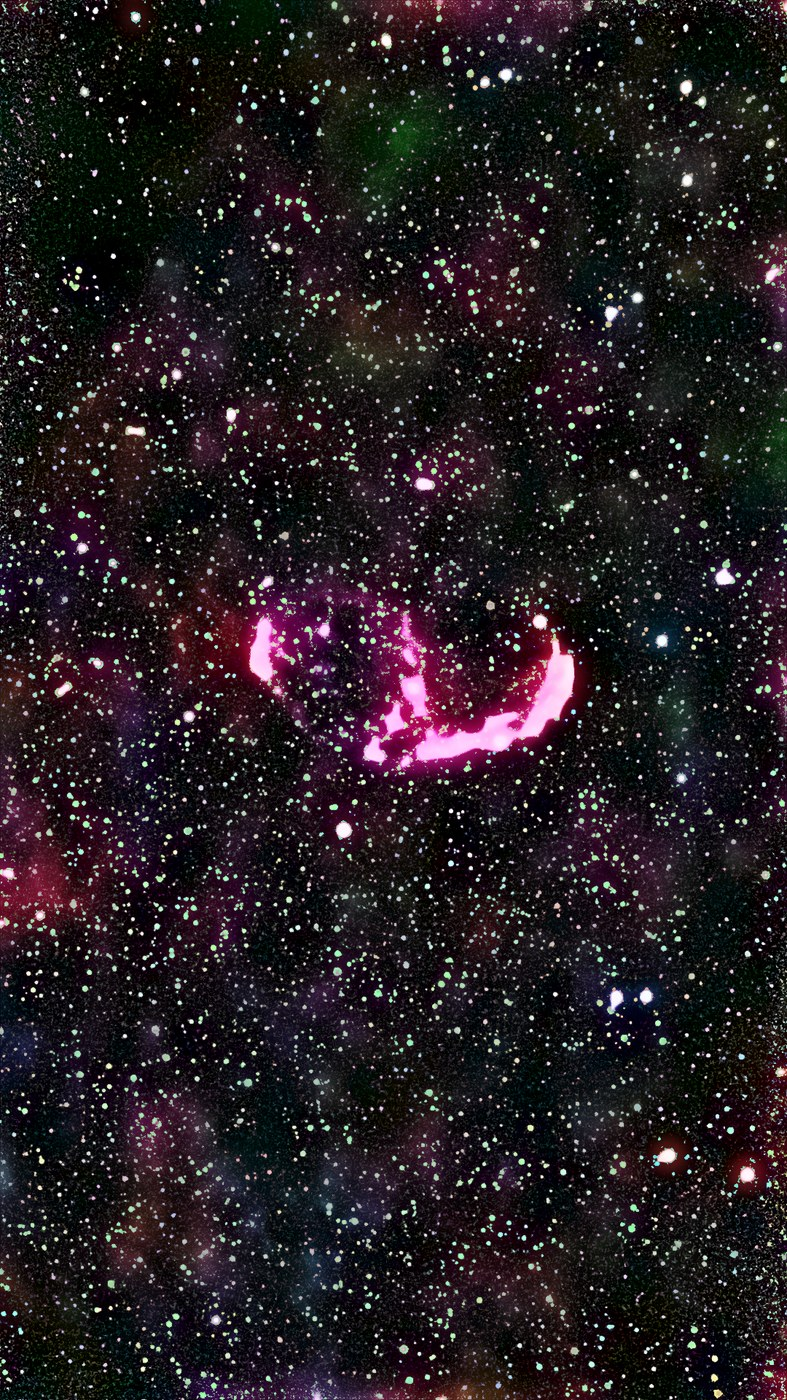
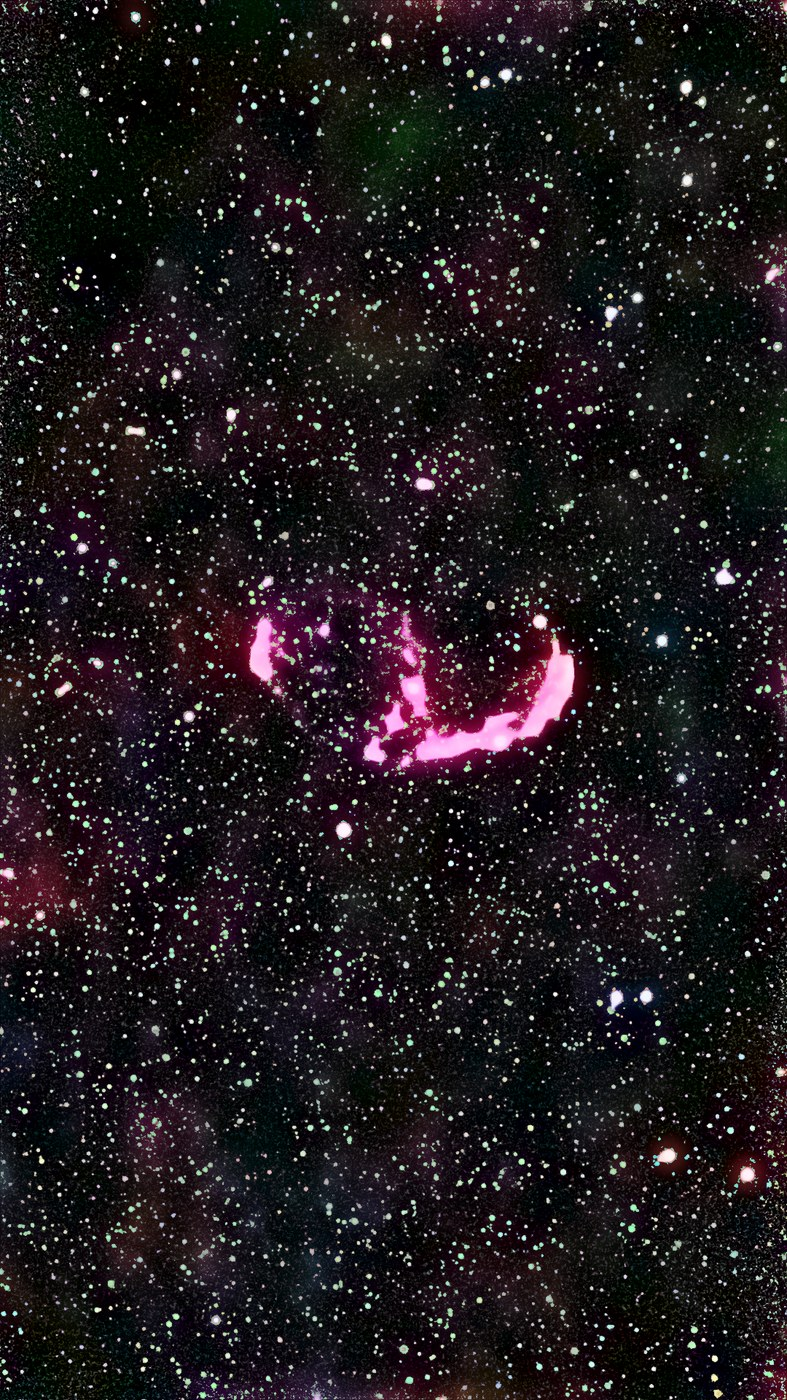
Nebula profile tuning: middle ground between blown-out and under-exposed
Previous commit 503d31a over-pushed: NGC 6888 crescent arc was
hue-clipping to saturated red and NGC 2244 bright arcs were
blowing to white. The follow-up commit cut too far the other way
and both went nearly invisible. This commit lands in the middle.

NEBULA_WIDE (NGC 6888):
  stretch.stretch      22   -> 20
  stretch.white_pct    99.2 -> 99.5
  curves.contrast      0.95 -> 0.80
  The white-percentile lift + softer S-curve give the Crescent
  arc enough headroom that it renders as strongly-coloured red
  without clipping to white.

NEBULA_DOMINANT (NGC 2244):
  stretch.stretch       22   -> 20
  stretch.white_pct     99.2 -> 99.6
  curves.contrast       0.7  -> 0.65
  curves.saturation     1.10 -> 1.10   (unchanged)
  curves.channel_gains  (2.00, 0.90, 0.10) -> (1.60, 0.95, 0.40)
  The (2.0, 0.9, 0.1) gains were pushing R far past 1.0 on any
  mid-luma nebula pixel (luma-weighted gain at luma=0.8 was ≈1.8x
  R) and every bright Rosette arc was clipping. The (1.6, 0.95,
  0.4) gains keep a firm Ha-red bias without clipping. Raised
  white_pct to 99.6 as a second safety net.

NEBULA_FILAMENT (NGC 6960):
  unchanged — current output (mostly-neutral Veil on dark sky) is
  what the user flagged as "really good".

docs/v2-samples refreshed.

diff --git a/backend/app/profiles.py b/backend/app/profiles.py
@@ -208,16 +208,15 @@ NEBULA_WIDE: Profile = {
         "green_clip": 0.20,
     },
     "stretch": {
-        # Hard sky crush — raised from 3 to 25 so the bottom quartile
-        # of luma maps to pure zero. Eliminates the residual sky tint
-        # the SPCC + chroma-blur pipeline was leaving even after the
-        # SCNR step. Faint nebula extends into the sky shoulder so a
-        # stiffer black point trims some outer halo, but for the
-        # wide-nebula targets (Rosette, Crescent) the bright structure
-        # still dominates.
+        # black_percentile=25 crushes the bottom quartile of luma to
+        # zero (sky goes dark). white_percentile=99.5 leaves just the
+        # actual stars at the upper end, with the Crescent arc sitting
+        # a notch below 1.0 — it reads as strongly coloured without
+        # clipping to white. stretch=20 balances dim-faint visibility
+        # against the risk of blowing the arc itself.
         "black_percentile": 25.0,
-        "white_percentile": 99.2,
-        "stretch": 22.0,
+        "white_percentile": 99.5,
+        "stretch": 20.0,
     },
     "bm3d_denoise": {
         "sigma": 0.22,
@@ -226,15 +225,11 @@ NEBULA_WIDE: Profile = {
         "chroma_edge_aware": True,
         "chroma_edge_luma_sigma": 0.06,
     },
-    # Saturation 1.0 — SPCC's fitted gains plus the arcsinh stretch
-    # together already produce enough chroma for an emission nebula.
-    # A positive saturation on top over-saturates the Ha-red regions
-    # we're calibrating toward.
-    # Aggressive S-curve so anything still above the new black point
-    # but below the bright nebula gets squashed to near-black; only
-    # the actual emission survives.
+    # S-curve 0.80: middle ground between the 0.95 that was squashing
+    # the Crescent arc into clipped saturation and the 0.65 that made
+    # it barely visible at all.
     "curves": {
-        "contrast": 0.95,
+        "contrast": 0.80,
         "saturation": 1.0,
         "saturation_mode": "hsv",
     },
@@ -362,12 +357,15 @@ NEBULA_DOMINANT: Profile = {
         "wb_strength": 0.0,
         "green_clip": 0.4,
     },
-    # Generic NEBULA stretch — gentler than NEBULA_WIDE's black=25
-    # crush, which would cut into the frame-filling emission.
+    # Gentler than NEBULA_WIDE's black=25 crush (would eat the
+    # frame-filling emission) but not so gentle that the nebula
+    # disappears. white_percentile=99.6 keeps the brightest arcs
+    # below 1.0; stretch=20 lifts the mid-tone Rosette glow without
+    # blowing it.
     "stretch": {
         "black_percentile": 2.0,
-        "white_percentile": 99.2,
-        "stretch": 22.0,
+        "white_percentile": 99.6,
+        "stretch": 20.0,
     },
     # Frame-filling nebulae have nothing identifiable as "sky" so
     # chroma noise can't be separated from the signal by sky
@@ -391,16 +389,16 @@ NEBULA_DOMINANT: Profile = {
     # where it can run, but which we have no catalogue leverage
     # for here.
     "curves": {
-        "contrast": 0.7,
+        "contrast": 0.65,
         "saturation": 1.10,
         "saturation_mode": "hsv",
-        # channel_gains tuned for Ha-dominant Rosette-class targets.
-        # Note: curves.channel_gains is luma-weighted so a dark pixel
-        # gets near-identity; a luma=0.5 pixel gets only half the
-        # named gain. The raw numbers below translate to ~1.5/0.95/
-        # 0.55 at mid-nebula luma, which is what puts the frame on
-        # the Ha-red axis rather than orange/gold.
-        "channel_gains": (2.00, 0.90, 0.10),
+        # channel_gains (1.60, 0.95, 0.40) — the (1.40, 0.95, 0.50)
+        # variant left the nebula too dim for the hue to read
+        # clearly; the (2.00, 0.90, 0.10) was over-clipping bright
+        # arcs to white. This value lands between them: strong
+        # Ha-red bias, but the R channel's peak stays below 1.0 at
+        # typical mid-nebula luma.
+        "channel_gains": (1.60, 0.95, 0.40),
     },
     "stars": {"radius": 7},
     # No "spcc" key — SPCC stage is skipped for this profile.
